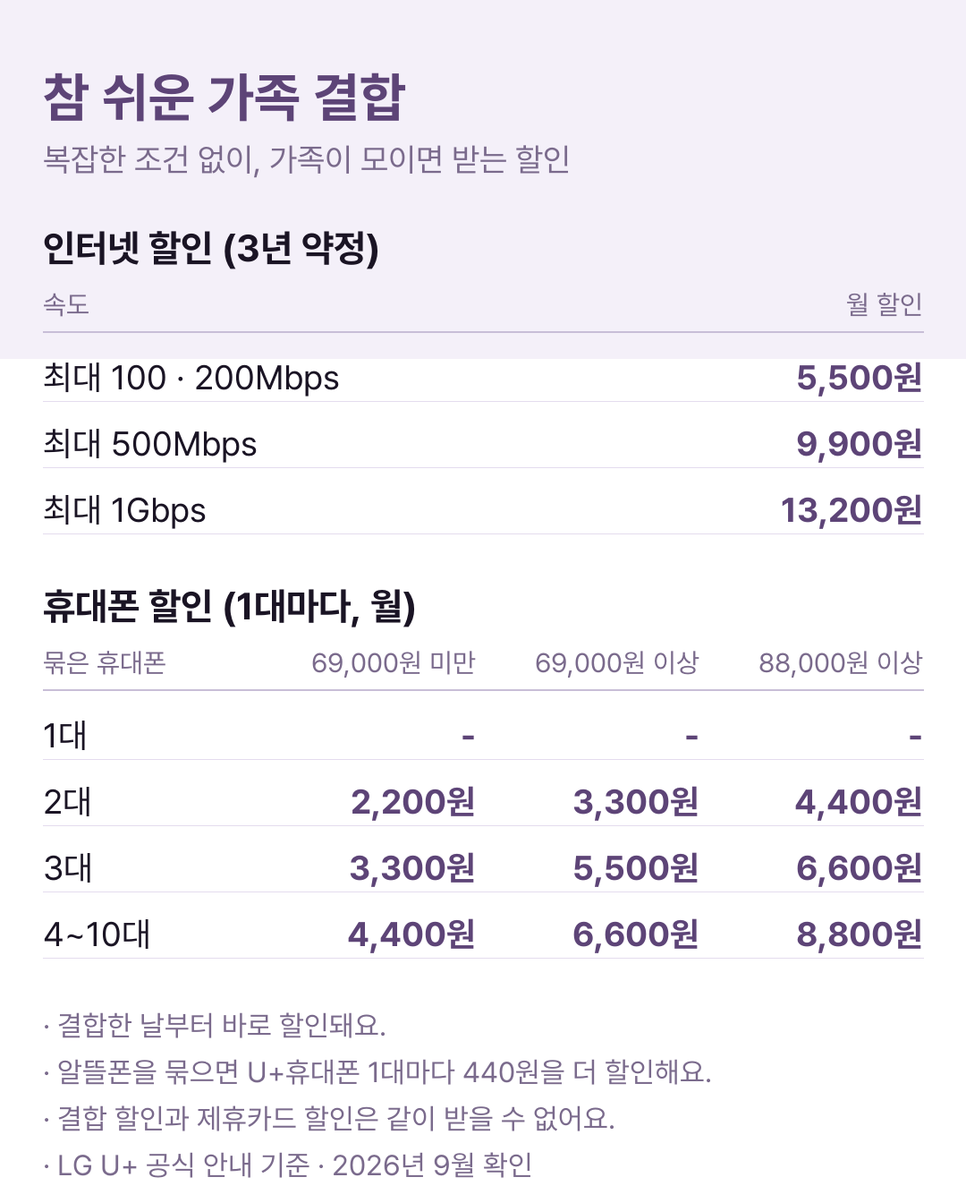
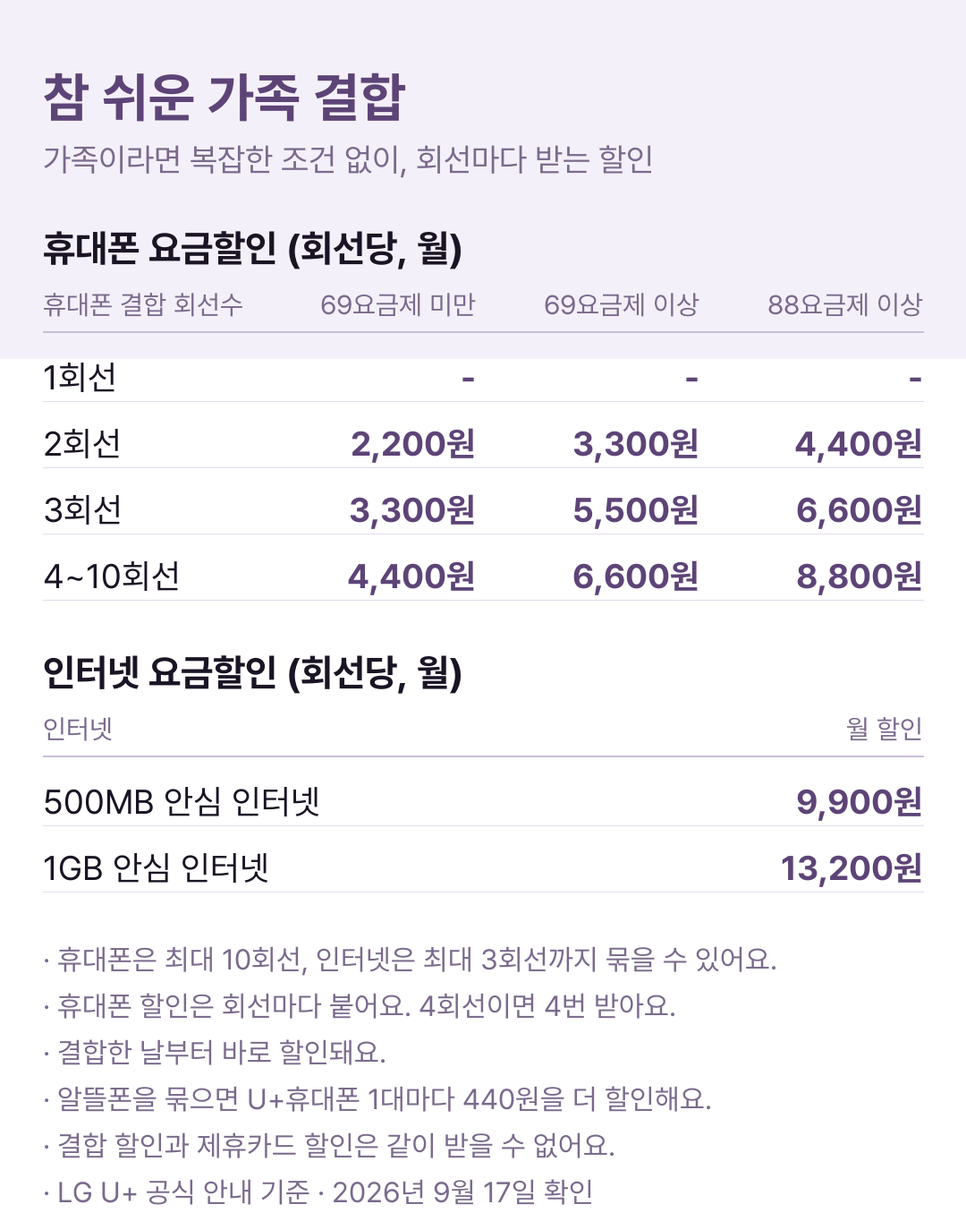
9/17 대표 지시 반영 — 결합표 바로잡기 · 185일 요금제 칸 · 월 납부 금액 올림
- U+투게더·참쉬운 표를 LG U+ 공식 값으로 다시 만듦. 휴대폰 할인은 «회선당»이 맞음(묶음 전체 아님)
- 투게더에서 «가족이 아니어도» 문구 뺌 — 청구계정을 하나로 묶어야 함
- 결합 화면: 아래 [인터넷 같이 상담받기] 단추를 빼고 체크 칸으로, 맨 위에도 체크 칸
- 상품 화면: 인터넷 결합 칸을 고르는 칸 안(PC 오른쪽)으로 옮기고 «투게더 할인 추가로 확인하기» 줄 얹음
- 24개월 합계표에 출고가·이통사지원금·자체할인 세 줄 추가
- 마이페이지에 «185일 뒤 요금제 낮추기» 칸 신설 (D-day·추천 요금제·매달 얼마 덜 내는지)
- 월 납부 금액의 기기 분을 내림→올림 — 이제 «월 할부금 + 월 요금 = 월 납부 금액»
- 월 금액 밑에 «휴대폰 ○○원 + 요금 ○○원» 분해 한 줄
- 작은 설명 글·비교 기준 단추에 몰 색 포인트

diff --git a/pages.css b/pages.css
@@ -72,7 +72,9 @@
 .choice-row { display: grid; grid-template-columns: repeat(2, 1fr); gap: 8px; }
 .choice-row--3 { grid-template-columns: repeat(3, 1fr); }
 .choice { position: relative; display: flex; flex-direction: column; justify-content: center; gap: 2px; min-height: 56px; padding: 11px 14px; border-radius: 12px; background: #fff; box-shadow: inset 0 0 0 1px #dedede; font-size: 15px; font-weight: 700; color: var(--ink); text-align: left; transition: box-shadow .15s; }
-.choice small { font-size: 12px; font-weight: 400; line-height: 1.4; color: var(--g3); }
+/* 고른 쪽 설명은 몰 색으로 — 옅은 회색이라 그냥 지나친다는 대표 지적 (2026-09-17) */
+.choice small { font-size: 12px; font-weight: 400; line-height: 1.4; color: var(--g2); }
+.choice[aria-pressed="true"] small { font-weight: 700; color: var(--mg); }
 .choice:hover { box-shadow: inset 0 0 0 1px #9a9a9a; }
 .choice[aria-pressed="true"] { box-shadow: inset 0 0 0 2px var(--ink); }
 .choice--center { align-items: center; text-align: center; }
@@ -101,6 +103,8 @@
 .pbox__month { margin-top: 16px; padding-top: 16px; border-top: 1px dashed #d6d6d6; display: flex; align-items: flex-end; justify-content: space-between; gap: 12px; }
 .pbox__month .k { font-size: 14px; font-weight: 700; color: var(--ink); }
 .pbox__month .v { font-size: 22px; font-weight: 700; color: var(--black); }
+.pbox__parts { margin-top: 6px; display: flex; flex-wrap: wrap; align-items: center; justify-content: flex-end; gap: 4px; font-size: 12px; color: var(--g1); }
+.pbox__parts i { font-style: normal; font-weight: 700; color: var(--mg); }
 .pbox__note { margin-top: 8px; font-size: 12px; line-height: 1.6; color: var(--g3); }
 .pbox__rows { margin-top: 14px; padding-top: 14px; border-top: 1px solid #e8e8e8; display: grid; gap: 9px; }
 .row { display: flex; justify-content: space-between; gap: 12px; font-size: 14px; }
@@ -338,7 +342,10 @@ body.has-bar #app { padding-bottom: calc(var(--bar) + env(safe-area-inset-bottom
 .compare .col.win { box-shadow: inset 0 0 0 2px var(--ink); }
 .compare h4 { display: flex; align-items: center; justify-content: space-between; gap: 6px; font-size: 14px; font-weight: 700; }
 .compare .big { margin-top: 8px; font-size: 19px; font-weight: 700; letter-spacing: -0.01em; }
-.compare .small { margin-top: 2px; font-size: 12px; line-height: 1.5; color: var(--g3); }
+/* 월 금액이 무엇으로 이루어졌는지 — 휴대폰 + 요금 (대표 2026-09-17) */
+.compare .parts { margin-top: 5px; display: flex; flex-wrap: wrap; align-items: center; gap: 4px; font-size: 12px; line-height: 1.5; color: var(--g1); }
+.compare .parts i { font-style: normal; font-weight: 700; color: var(--mg); }
+.compare .small { margin-top: 6px; padding-top: 6px; border-top: 1px solid var(--line-2); font-size: 12px; line-height: 1.5; color: var(--g3); }
 .compare-res { margin-top: 10px; padding: 11px 13px; border-radius: 10px; background: var(--mg-tint); color: #9b1553; font-size: 14px; font-weight: 700; line-height: 1.5; }
 .a-list li { position: relative; padding-left: 16px; font-size: 16px; line-height: 1.75; color: #2a2a2a; }
 .a-list li::before { content: ""; position: absolute; left: 2px; top: .78em; width: 5px; height: 5px; border-radius: 50%; background: var(--mg); }
@@ -1027,9 +1034,13 @@ body.has-tour #main { padding-top: 60px; }
 }
 
 /* ---------- 할인 방법 비교 기준 · 24개월 합계 창 ---------- */
-.cmp-basis { margin-top: 10px; display: grid; grid-template-columns: 1fr 1fr; padding: 3px; border-radius: 12px; background: var(--chip); }
-.cmp-basis button { height: 36px; border-radius: 9px; font-size: 13px; font-weight: 700; color: var(--g2); text-align: center; }
-.cmp-basis button[aria-pressed="true"] { background: #fff; color: var(--ink); box-shadow: 0 1px 3px rgba(0, 0, 0, .08); }
+/* 무엇을 고르는 칸인지 알아보게 이름을 붙이고 몰 색을 준다 (대표 2026-09-17
+ * «요금제 그대로 / 요금을 낮출 생각이면 이부분도 몬가 포인트를 주는게 좋아보여») */
+.cmp-basis-lab { margin-top: 14px; display: flex; align-items: center; gap: 5px; font-size: 12px; font-weight: 700; color: var(--mg); }
+.cmp-basis-lab .ic { width: 14px; height: 14px; }
+.cmp-basis { margin-top: 6px; display: grid; grid-template-columns: 1fr 1fr; padding: 3px; border-radius: 12px; background: var(--mg-tint); }
+.cmp-basis button { height: 36px; border-radius: 9px; font-size: 13px; font-weight: 700; color: #9b1553; text-align: center; }
+.cmp-basis button[aria-pressed="true"] { background: #fff; color: var(--mg); box-shadow: 0 1px 3px rgba(0, 0, 0, .10); }
 .cmp-sec + .cmp-sec { margin-top: 22px; }
 .cmp-sec h3 { margin-bottom: 6px; font-size: 15px; font-weight: 700; }
 .cmp-tbl { width: 100%; border-collapse: collapse; font-size: 13px; }
@@ -1038,6 +1049,10 @@ body.has-tour #main { padding-top: 60px; }
 .cmp-tbl thead th { font-size: 12px; font-weight: 700; color: var(--g2); }
 .cmp-tbl .tot td { border-bottom: 0; font-weight: 700; color: var(--ink); }
 .cmp-tbl .tot td.win { color: var(--mg); }
+/* 이통사지원금 줄 — 여기가 제일 궁금한 자리라 눈에 들어오게 (대표 2026-09-17) */
+.cmp-tbl .hl td { background: var(--mg-tint); font-weight: 700; color: #9b1553; }
+.cmp-tbl .hl td:first-child { color: #9b1553; border-radius: 8px 0 0 8px; }
+.cmp-tbl .hl td:last-child { border-radius: 0 8px 8px 0; }
 .cmp-res { margin-top: 8px; padding: 10px 12px; border-radius: 10px; background: var(--mg-tint); color: #9b1553; font-size: 13px; font-weight: 700; }
 .cmp-sec .help-t { margin-top: 8px; }
 
@@ -1299,6 +1314,12 @@ body.has-tour #main { padding-top: 60px; }
 .bf-net__t small { display: block; margin-top: 2px; font-size: 12px; line-height: 1.45; color: #6b5c7d; }
 .bf-net__more { flex: none; display: inline-flex; align-items: center; gap: 2px; font-size: 12.5px; font-weight: 700; color: var(--lav-cta); }
 .bf-net__more .ic { width: 13px; height: 13px; }
+/* 보러 가는 줄 — 체크만 있으면 그냥 지나친다는 대표 지적 (2026-09-17) */
+.bf-net--go { flex-direction: column; align-items: stretch; gap: 10px; padding: 14px; }
+.bf-net__go { display: flex; align-items: center; justify-content: space-between; gap: 10px; padding: 12px 14px; border-radius: 11px; background: var(--lav-cta); color: #fff; }
+.bf-net__go .ic { flex: none; width: 17px; height: 17px; }
+.bf-net__got b { display: block; font-size: 15px; font-weight: 700; letter-spacing: -0.02em; }
+.bf-net__got small { display: block; margin-top: 3px; font-size: 12px; line-height: 1.45; color: #e6dff0; }
 
 /* 결합 할인 두 가지 — LG U+ 공식 페이지 방식(할인액을 가장 크게) · 대표 지시 2026-09-17 */
 .cb { display: grid; gap: 14px; margin-top: 16px; }
@@ -1330,3 +1351,25 @@ body.has-tour #main { padding-top: 60px; }
 }
 .cb__img { display: block; width: calc(100% + 40px); max-width: none; height: auto; margin: 16px -20px -22px; border-radius: 0 0 20px 20px; }
 @media (min-width: 1024px) { .cb__img { width: calc(100% + 52px); margin: 18px -26px -26px; border-radius: 0 0 24px 24px; } }
+
+/* ---------- 마이페이지 · 185일 뒤 요금제 낮추기 (대표 2026-09-17) ---------- */
+.pdown { margin-top: 14px; padding: 16px; border-radius: 16px; background: var(--mg-tint); }
+.pdown__hd { display: flex; align-items: flex-start; justify-content: space-between; gap: 10px; }
+.pdown__hd > div > b { display: block; font-size: 15px; font-weight: 700; letter-spacing: -0.02em; color: #7a0f42; }
+.pdown__hd small { display: block; margin-top: 3px; font-size: 12.5px; line-height: 1.5; color: #9b1553; }
+.pdown__hd small b { font-weight: 700; }
+.pdown__d { flex: none; display: inline-flex; align-items: center; height: 24px; padding: 0 9px; border-radius: 7px; background: #fff; font-size: 12px; font-weight: 700; color: var(--mg); }
+.pdown__d.on { background: var(--mg); color: #fff; }
+.pdown__when { margin-top: 8px; font-size: 12.5px; color: #9b1553; }
+.pdown__when b { font-weight: 700; }
+.pdown__list { margin-top: 12px; display: grid; gap: 6px; }
+.pdown__list li { display: flex; align-items: center; justify-content: space-between; gap: 10px; padding: 11px 13px; border-radius: 11px; background: #fff; }
+.pdown__list li.best { box-shadow: inset 0 0 0 1.5px var(--mg); }
+.pdown__list li > div:first-child b { display: flex; align-items: center; gap: 5px; font-size: 14px; font-weight: 700; color: var(--ink); }
+.pdown__list li > div:first-child small { display: block; margin-top: 2px; font-size: 12px; color: var(--g2); }
+.pdown__list .tag { display: inline-flex; align-items: center; height: 18px; padding: 0 6px; border-radius: 5px; background: var(--mg); color: #fff; font-size: 10.5px; font-weight: 700; }
+.pdown__n { flex: none; text-align: right; }
+.pdown__n b { display: block; font-size: 14px; font-weight: 700; color: var(--ink); }
+.pdown__n small { display: block; margin-top: 2px; font-size: 12px; font-weight: 700; color: var(--mg); }
+.pdown .help-t { margin-top: 10px; color: #9b1553; }
+.pdown__acts { margin-top: 12px; display: flex; flex-wrap: wrap; gap: 8px; }

diff --git a/views-shop.js b/views-shop.js
@@ -312,7 +312,8 @@ ${H.bannerHtml()}
     var btn = function (key, label, sub, ok) {
       return `<button type="button" class="choice" data-act="setOpt" data-k="discount" data-v="${key}" aria-pressed="${s.discount === key}"${ok ? "" : " disabled"}>${best && best.key === key ? '<span class="save">덜 내요</span>' : ""}${label}<small>${ok ? sub : "이 상품은 안 돼요"}</small></button>`;
     };
-    var basis = canDown ? `<div class="cmp-basis" role="group" aria-label="비교 기준"><button type="button" data-act="cmpBasis" data-v="keep" aria-pressed="${!down}">요금제 그대로</button><button type="button" data-act="cmpBasis" data-v="down" aria-pressed="${down}">요금을 낮출 생각이면</button></div>` : "";
+    var basis = canDown ? `<p class="cmp-basis-lab">${H.icon("spark")}어떤 기준으로 견줄까요?</p>
+      <div class="cmp-basis" role="group" aria-label="비교 기준"><button type="button" data-act="cmpBasis" data-v="keep" aria-pressed="${!down}">요금제 그대로</button><button type="button" data-act="cmpBasis" data-v="down" aria-pressed="${down}">요금을 낮출 생각이면</button></div>` : "";
     var line = "";
     if (best && best.key !== s.discount) line = `<p class="save-line">${H.icon("spark")}<span>이 조건에선 <b>${best.label}</b>이 ${when} <b class="num">${H.won(best.diff)}</b> 덜 내요.</span><button type="button" data-act="setOpt" data-k="discount" data-v="${best.key}">바꾸기</button></p>`;
     else if (best) line = `<p class="save-line">${H.icon("check")}<span>지금 고른 <b>${best.label}</b>이 ${when} <b class="num">${H.won(best.diff)}</b> 덜 내요.</span></p>`;
@@ -337,8 +338,14 @@ ${H.bannerHtml()}
       ? row(`요금 1~${k}개월<br><small>월 ${H.won(ro.planFeeBase)}</small>`, H.won(ro.planFee * k), H.won(rs.planFee * k)) + row(`요금 ${k + 1}~24개월<br><small>월 47,000원</small>`, H.won(low * rest), H.won(Math.round(low * 0.75) * rest))
       : row("요금 24개월", H.won(ro.planFee * 24), H.won(rs.planFee * 24));
     var win = co === cs ? "" : co < cs ? "a" : "b";
+    /* 할부원금이 어떻게 나왔는지 위 세 줄로 보여 준다 — 이통사지원금이 얼마인지가 제일 궁금하다는
+     * 대표 지적 (2026-09-17 «여기에 이통사 지원금 금액을 넣는게 중요해») */
+    var minus = function (v) { return v > 0 ? "− " + H.won(v) : "없음"; };
+    var head = row("출고가", H.won(ro.release), H.won(rs.release))
+      + `<tr class="hl"><td>이통사지원금</td><td class="num">${minus(ro.carrierSupport)}</td><td class="num">${minus(rs.carrierSupport)}</td></tr>`
+      + row("하이유플 자체할인", minus(ro.self), minus(rs.self));
     return `<table class="cmp-tbl"><thead><tr><th></th><th>이통사지원금</th><th>선택약정</th></tr></thead><tbody>
-      ${row("할부원금", H.won(ro.principal), H.won(rs.principal))}${row("할부 이자", H.won(ro.totalInterest), H.won(rs.totalInterest))}${fees}
+      ${head}${row("할부원금", H.won(ro.principal), H.won(rs.principal))}${row("할부 이자", H.won(ro.totalInterest), H.won(rs.totalInterest))}${fees}
       <tr class="tot"><td>24개월 합계</td><td class="num${win === "a" ? " win" : ""}">${H.won(co)}</td><td class="num${win === "b" ? " win" : ""}">${H.won(cs)}</td></tr></tbody></table>
       ${win ? `<p class="cmp-res">${win === "a" ? "이통사지원금" : "선택약정"}이 <span class="num">${H.won(Math.abs(co - cs))}</span> 덜 내요.</p>` : ""}`;
   }
@@ -364,12 +371,16 @@ ${H.bannerHtml()}
       <div class="pbox__main"><span class="k">나의 실구매가</span><span class="v num">${H.won(r.principal)}</span></div>
       <div class="pbox__conds">${conds.map(function (c) { return `<span class="cond-pill">${c}<b>${H.icon("check")}없음</b></span>`; }).join("")}</div>
       <div class="pbox__month"><span class="k">월 납부 금액 (VAT 포함)</span><span class="v num">${H.won(r.monthlyTotal)}</span></div>
+      <p class="pbox__parts num"><span>휴대폰 ${H.won(r.monthlyTotal - r.planFee)}</span><i>+</i><span>요금 ${H.won(r.planFee)}</span></p>
       <p class="pbox__note">지금 보시는 금액이 최종 결제 금액이에요. 추가 청구는 없어요. 할부를 고른 경우에만 연 5.9% 이자가 붙어요.</p>
       <div class="pbox__rows">${H.priceRows(p, s, r)}</div></div>`;
   }
   H.productPanel = function (p) {
     var s = H.selFor(p), r = H.price(p, s);
+    /* 인터넷 결합은 고르는 칸 안(PC 오른쪽 칸)에 둔다 — 아래에 있으면 PC에서 그냥 지나친다는
+     * 대표 지적 (2026-09-17 «피시버전에서는 하단에 있다보니 그냥 지나칠수있을거같아») */
     return optColor(p, s) + optCarrier(p) + optVol(p, s) + optPlan(p, s, r) + optDiscount(p, s) + optPay(s) + priceBox(p, s, r) +
+      `<div class="pd-net">${H.netAskCard("", "인터넷도 같이 상담받을게요", "휴대폰 가격은 그대로예요. 체크하면 접수할 때 같이 들어가요.")}</div>` +
       `<div class="pd-cta pc-only"><button type="button" class="btn btn--mg btn--block" data-act="order">주문하기</button>
         <div class="pd-cta__sub"><button type="button" data-act="callback">${H.icon("call")}번호만 남기고 상담받기</button><button type="button" data-act="chat">${H.icon("spark")}AI에게 물어보기</button></div></div>
       <div class="pd-cta__sub pd-sub-mo mo-only"><button type="button" data-act="callback">${H.icon("call")}번호만 남기고 상담받기</button><button type="button" data-act="chat">${H.icon("spark")}AI에게 물어보기</button></div>`;
@@ -428,7 +439,6 @@ ${H.bannerHtml()}
         <article class="info-card"><small>추가 청구 없음</small><h3>지금 보시는 월 납부 금액이 마지막 금액이에요</h3><p>개통 후에 다른 명목으로 더 청구하지 않아요. 할부를 고른 경우에만 연 5.9% 이자가 따로 붙어요.</p></article>
         <article class="info-card"><small>요금제</small><h3>요금제는 185일 뒤에 낮출 수 있어요</h3><p>개통일 기준 185일이 지나면 월 47,000원 이상 요금제로 바꿀 수 있어요. 그보다 낮추면 위약금이 생길 수 있어요.</p><a class="link-arrow" href="#/guide/plan-down">자세히 보기${H.icon("arrow")}</a></article>
       </div>
-      ${H.netAskCard("", "인터넷도 같이 상담받을게요", "휴대폰 가격은 그대로예요. 체크하면 접수할 때 같이 들어가요.")}</a>
       ${detailBlock(p, s)}
     </section>
     <section class="pd-sec" id="pdGuide">

diff --git a/together.js b/together.js
@@ -1,5 +1,9 @@
 /* 하이유플 리뉴얼 목업 — 휴대폰 + 인터넷 같이 (메뉴가 아닌 따로 된 설명 공간 · 주소 #/together)
- * 할인표: LG U+ 공식 «참 쉬운 가족 결합» 페이지(lguplus.com/benefit-uplus/combined-discount/B200000016), 2026-09-16 확인
+ * 할인표: LG U+ 공식 두 페이지, 2026-09-17 확인
+ *   참 쉬운 가족 결합  lguplus.com/benefit-uplus/combined-discount/B200000016
+ *   U+투게더 결합      lguplus.com/mobile/combined/together
+ * ★두 결합 모두 휴대폰 할인은 «회선당»이다(묶음 전체가 아니다). 대표 참고자료 2026-09-17 로 바로잡음.
+ * ★투게더에 «가족이 아니어도» 문구를 쓰지 않는다 — 청구계정을 하나로 묶어야 하므로 (대표 2026-09-17)
  * 인터넷 요금 · 설치비: 자비스웹 인터넷+TV 가격설정(hs_internet_settings, LG, 정책 기준일 2026-09-07) 값
  * 가입 지원금은 조합마다 달라 숫자를 쓰지 않는다(2026-09-15 대표 지시로 인터넷 화면에서도 «정해진 값»처럼 보이는 표기를 뺐다)
  */
@@ -57,33 +61,34 @@
   <header class="tg-hd">
     <p class="tg-eyebrow">휴대폰 + 인터넷</p>
     <h1>인터넷도 같이 하면<br>결합 할인이 따로 있어요</h1>
-    <p class="tg-lead">휴대폰 가격은 인터넷과 상관없어요. LG U+ 인터넷을 같이 쓰면 «참 쉬운 가족 결합»으로 매달 요금이 내려가요.</p>
+    <p class="tg-lead">휴대폰 가격은 인터넷과 상관없어요. LG U+ 인터넷을 같이 쓰면 «U+투게더 결합»이나 «참 쉬운 가족 결합»으로 매달 요금이 내려가요.</p>
     <ul class="tg-points">
       <li>${H.icon("check")}<span><b>휴대폰 가격은 그대로</b>인터넷 결합 조건 없음</span></li>
       <li>${H.icon("wifi")}<span><b>인터넷 요금 할인</b>속도에 따라 매달 내려가요</span></li>
       <li>${H.icon("user")}<span><b>가족 휴대폰도 할인</b>2대부터 1대마다 더 내려가요</span></li>
     </ul>
+    ${H.netAskCard("", "인터넷도 같이 상담받을게요", "체크해 두시면 휴대폰 접수할 때 같이 들어가요.", true)}
   </header>
 
   <section class="tg-sec tg-sec--hero"><h2>결합 할인 두 가지</h2><p class="tg-sub">묶는 사람과 조건이 달라요. 어느 쪽이 나은지는 상담에서 같이 봐 드려요.</p>
     <div class="cb">
       <article class="cb__c cb__c--alt">
         <p class="cb__n">U+투게더 결합</p>
-        <p class="cb__d">가족이 아니어도, 무제한 요금제면 묶을 수 있는 할인</p>
-        <p class="cb__big"><b class="num">31,000</b><span>원</span><small>매달, 최대</small></p>
-        <p class="cb__basis">인터넷 500Mbps 이상 + 휴대폰 4~5대 기준</p>
-        <img class="cb__img" src="img/combo-together.png" width="1080" height="1300" alt="U+투게더 결합 할인표">
+        <p class="cb__d">무제한 요금제끼리 모이면, 회선마다 크게 받는 할인</p>
+        <p class="cb__big"><b class="num">91,000</b><span>원</span><small>매달</small></p>
+        <p class="cb__basis">휴대폰 4대(회선당 20,000원) + 1Gbps 인터넷 기준 · 월 85,000원 이상 요금제만</p>
+        <img class="cb__img" src="img/combo-together.png" width="1080" height="1448" alt="U+투게더 결합 할인표">
       </article>
       <article class="cb__c">
         <p class="cb__n">참 쉬운 가족 결합</p>
-        <p class="cb__d">복잡한 조건 없이, 가족이 모이면 받는 할인</p>
-        <p class="cb__big"><b class="num">57,200</b><span>원</span><small>매달, 최대</small></p>
-        <p class="cb__basis">인터넷 1Gbps + 가족 휴대폰 5대(월 88,000원 이상) 기준</p>
-        <img class="cb__img" src="img/combo-family.png" width="1080" height="1344" alt="참 쉬운 가족 결합 할인표">
+        <p class="cb__d">가족이라면 복잡한 조건 없이, 회선마다 받는 할인</p>
+        <p class="cb__big"><b class="num">48,400</b><span>원</span><small>매달</small></p>
+        <p class="cb__basis">같은 조건 — 휴대폰 4회선(회선당 8,800원) + 1GB 인터넷 기준</p>
+        <img class="cb__img" src="img/combo-family.png" width="1080" height="1374" alt="참 쉬운 가족 결합 할인표">
       </article>
     </div>
-    <ul class="a-list tg-notes"><li>할인액은 3년 약정 기준이에요. 2년은 절반, 1년은 4분의 1이에요.</li><li>두 결합을 같이 받을 수는 없어요. 유리한 쪽 하나를 골라요.</li></ul>
-    <p class="asof">LG U+ 공식 안내 기준 · 2026년 9월 16일 확인 · 가입 조건은 상담에서 다시 확인해 드려요</p>
+    <ul class="a-list tg-notes"><li><b>두 결합 모두 휴대폰 할인은 회선마다 붙어요.</b> 묶은 대수만큼 곱해서 받아요.</li><li>투게더는 월 85,000원 이상 무제한 요금제만 되고, 대표자가 한꺼번에 내는 청구계정으로 묶어야 해요.</li><li>인터넷 할인액은 3년 약정 기준이에요. 2년은 절반, 1년은 4분의 1이에요.</li><li>두 결합을 같이 받을 수는 없어요. 유리한 쪽 하나를 골라요.</li></ul>
+    <p class="asof">LG U+ 공식 안내 기준 · 2026년 9월 17일 확인 · 가입 조건은 상담에서 다시 확인해 드려요</p>
   </section>
 
   <section class="tg-sec"><h2>인터넷 가입 지원금</h2>
@@ -105,7 +110,7 @@
 
   ${H.netAskCard("", "인터넷도 같이 상담받을게요", "체크해 두시면 휴대폰 접수할 때 같이 들어가요.", true)}
 
-  <div class="tg-cta"><button type="button" class="btn btn--mg btn--block" data-act="tgLead">인터넷 같이 상담받기</button>${backBtn()}</div>
+  <div class="tg-cta">${backBtn()}</div>
   <p class="demo-note"><span class="demo-tag">시안</span>하이유플은 지금 인터넷을 웹에서 팔지 않아요(인터넷 화면 꺼짐). 상담 접수는 자비스웹 «상담 접수 › 인터넷»으로 들어가요</p>
 </div>`
     };

diff --git a/views-member.js b/views-member.js
@@ -131,6 +131,47 @@
   };
 
   /* ---------- 마이페이지 ---------- */
+  /* 185일 뒤 요금제 낮추기 — 개통하고 나면 잊어버리는 자리라 마이페이지에서 챙겨 준다
+   * (대표 2026-09-17 «고객이 185일 이후에 어떤거로 변경하는게 좋다는걸 볼수있는 칸을 만들어줘») */
+  function planDownCard(o) {
+    if (!o) return "";
+    var p = H.prod(o.pid);
+    if (!p) return "";
+    var sel = o.sel, r = H.price(p, sel), now = r.plan;
+    if (!now || r.planFeeBase <= H.DOWN.fee) return "";
+    var sale = sel.discount === "select";
+    var feeOf = function (f) { return sale ? Math.round(f * 0.75) : f; };
+
+    var d = new Date(String(o.date).replace(/\./g, "-"));
+    d.setDate(d.getDate() + 185);
+    var when = d.getFullYear() + "." + String(d.getMonth() + 1).padStart(2, "0") + "." + String(d.getDate()).padStart(2, "0");
+    var left = Math.ceil((d - new Date()) / 86400000);
+    var ready = left <= 0;
+
+    var list = Object.keys(H.D.plans).map(function (k) { return H.D.plans[k]; })
+      .filter(function (x) { return x.fee >= H.DOWN.fee && x.fee < r.planFeeBase; })
+      .sort(function (a, b) { return a.fee - b.fee; }).slice(0, 3);
+    if (!list.length) return "";
+
+    return `<section class="pdown">
+      <div class="pdown__hd">
+        <div><b>185일 뒤엔 요금제를 낮출 수 있어요</b>
+          <small>지금 <b>${H.esc(now.name)}</b> 월 ${H.won(r.planFee)}${sale ? " (선택약정 25% 뺀 금액)" : ""}</small></div>
+        <span class="pdown__d ${ready ? "on" : ""}">${ready ? "지금 바꿀 수 있어요" : "D-" + left}</span>
+      </div>
+      <p class="pdown__when">개통일 ${H.esc(o.date)} 기준 · <b>${when}</b>부터</p>
+      <ul class="pdown__list">${list.map(function (x, i) {
+      var save = r.planFee - feeOf(x.fee);
+      return `<li${i === 0 ? ' class="best"' : ""}>
+          <div><b>${H.esc(x.name)}${i === 0 ? '<span class="tag">가장 많이 아껴요</span>' : ""}</b>
+            <small>${H.esc(x.data)}${x.after ? " · 다 쓰면 " + H.esc(x.after) : ""}</small></div>
+          <div class="pdown__n"><b class="num">월 ${H.won(feeOf(x.fee))}</b><small class="num">매달 ${H.won(save)} ↓</small></div></li>`;
+    }).join("")}</ul>
+      <p class="help-t">월 47,000원(${H.DOWN.name})보다 더 낮추면 받은 지원금을 토해내야 할 수 있어요. 선택약정 25% 할인은 바꾼 요금제에도 그대로 이어져요.</p>
+      <div class="pdown__acts"><button type="button" class="btn btn--line btn--sm" data-act="consult">바꾸는 것 상담받기</button><a class="btn btn--soft btn--sm" href="#/guide/plan-down">왜 185일인가요?</a></div>
+    </section>`;
+  }
+
   H.views.my = function () {
     var s = H.state;
     if (!s.loggedIn) {
@@ -162,6 +203,7 @@
   <div>
     <header class="me-hd"><h1>${H.esc(s.user.name)}님</h1><p>아이디 ${H.esc(s.user.id)} · <a class="me-edit" href="#/my/account">회원정보 수정 ›</a></p></header>
     <div class="tiles">${tiles}</div>
+    ${planDownCard(cur)}
     ${s.partner ? `<div class="ref-card"><div><b>내 추천 링크</b><small class="num">hiuplus.com/${s.partner.code}</small></div><div class="ref-card__acts"><button type="button" class="btn btn--line btn--sm" data-act="copyRef">복사</button><a class="btn btn--ink btn--sm" href="#/partner/stats">내 실적</a></div></div>`
       : `<a class="ref-card ref-card--join" href="#/partner"><div><b>하이유플 파트너스</b><small>지인에게 링크를 보내고 개통 1건당 20,000원 받기</small></div>${H.icon("chev-r")}</a>`}
     <div class="quick">

diff --git a/core.js b/core.js
@@ -82,7 +82,9 @@
       release: release, carrierSupport: carrierSupport, self: self, principal: principal, months: months,
       monthlyDevice: monthlyDevice, interest: interest, totalInterest: totalInterest,
       planFee: planFee, planFeeBase: row[1], selectMonthly: row[1] - planFee,
-      monthlyTotal: (raw > 0 ? Math.floor(raw) : 0) + planFee, plan: H.plan(row[0]), planId: row[0]
+      /* 월 납부 금액의 기기 분도 올림 — 옛 사이트는 내림이라 «할부금+요금»과 1원 어긋났다.
+       * 대표 2026-09-17 «올림으로 맞추고» → 이제 표의 월 할부금 + 월 통신 요금 = 월 납부 금액 */
+      monthlyTotal: monthlyDevice + planFee, plan: H.plan(row[0]), planId: row[0]
     };
   };
   /* 24개월 동안 내는 돈 = 기기값 + 할부 이자 + 요금 24개월 */
@@ -109,14 +111,18 @@
    * «설명화면으로 넘어가고 설명화면 에도 설명화면 누르기전에도 체크 하는게 있어야되») */
   H.netAsk = function () { return H.state.netAsk === true; };
   H.acts.netAskToggle = function () { H.state.netAsk = !H.state.netAsk; H.save(); H.render(); };
+  /* noMore=true 면 체크 칸만 (결합 화면 위·아래에 쓴다).
+   * 아니면 «얼마나 내려가는지 보러 가는 줄»을 위에 크게 얹는다 — 체크만 있으면 그냥 지나친다는
+   * 대표 지적 (2026-09-17 «투게더 할인 추가 확인 하기 같은 식으로 해서 고객 클릭 유도») */
   H.netAskCard = function (_eyebrow, title, desc, noMore) {
     var on = H.netAsk();
-    return `<div class="bf-net${on ? " on" : ""}">
-      <button type="button" class="bf-net__chk" data-act="netAskToggle" aria-pressed="${on}">
+    var chk = `<button type="button" class="bf-net__chk" data-act="netAskToggle" aria-pressed="${on}">
         <span class="box">${H.icon("check")}</span>
-        <span class="bf-net__t"><b>${H.esc(title)}</b><small>${H.esc(desc)}</small></span></button>
-      ${noMore ? "" : `<a class="bf-net__more" href="#/together">결합 할인 보기${H.icon("arrow")}</a>`}
-    </div>`;
+        <span class="bf-net__t"><b>${H.esc(title)}</b><small>${H.esc(desc)}</small></span></button>`;
+    if (noMore) return `<div class="bf-net${on ? " on" : ""}">${chk}</div>`;
+    return `<div class="bf-net bf-net--go${on ? " on" : ""}">
+      <a class="bf-net__go" href="#/together"><span class="bf-net__got"><b>투게더 결합 할인 추가로 확인하기</b><small>가족 4명이 모이면 인터넷까지 매달 91,000원 내려가요</small></span>${H.icon("arrow")}</a>
+      ${chk}</div>`;
   };
 
   H.listPrice = function (p) { var s = H.defaults(p); return Object.assign(H.price(p, s), { sel: s }); };

diff --git a/views-more.js b/views-more.js
@@ -49,9 +49,14 @@
     var ra = H.price(p, sa), rb = H.price(p, sb), ca = cost(p, sa), cb = cost(p, sb);
     var win = b.neutral || ca === cb ? "" : ca < cb ? "a" : "b";
     var after = function (r, s) { return r.monthlyTotal - r.planFee + Math.round(Math.min(r.planFeeBase, H.DOWN.fee) * (s.discount === "select" ? 0.75 : 1)); };
+    /* 월 납부 금액이 무엇으로 이루어졌는지 한 줄로 보여 준다 (대표 2026-09-17
+     * «할부금 얼마 요금 얼마 더해서 얼마 이런식으로 표기하면 고객이 더 편하게 볼거같아»)
+     * 기기분은 monthlyTotal − planFee 로 뽑는다. 그래야 «더하면 합계»가 늘 맞는다 */
     var col = function (key, lab, r, c, s) {
       return `<div class="col${win === key ? " win" : ""}"><h4>${lab}${win === key ? '<span class="badge badge--pre">덜 내요</span>' : ""}</h4>
-        <p class="big num">월 ${H.won(r.monthlyTotal)}</p><p class="small num">${b.down ? `${H.DOWN.keep + 1}개월째부터 월 ${H.won(after(r, s))}<br>` : ""}실구매가 ${H.won(r.principal)}<br>24개월 합계 ${H.won(c)}</p></div>`;
+        <p class="big num">월 ${H.won(r.monthlyTotal)}</p>
+        <p class="parts num"><span>휴대폰 ${H.won(r.monthlyTotal - r.planFee)}</span><i>+</i><span>요금 ${H.won(r.planFee)}</span></p>
+        <p class="small num">${b.down ? `${H.DOWN.keep + 1}개월째부터 월 ${H.won(after(r, s))}<br>` : ""}실구매가 ${H.won(r.principal)}<br>24개월 합계 ${H.won(c)}</p></div>`;
     };
     var gap = H.won(Math.abs(ca - cb));
     var res = ca === cb ? "" : b.neutral ? `<p class="compare-res">같은 폰, 같은 요금제라도 24개월 합계가 <span class="num">${gap}</span> 달라요.</p>`

diff --git a/data.js b/data.js
@@ -18,6 +18,7 @@ window.HIU = {
     4: { name: "데이터플랜80GB", fee: 66000, net: "5G", data: "80GB", after: "1Mbps", voice: "유무선 무제한", extra: "300분", sms: "무제한" },
     5: { name: "데이터플랜50GB", fee: 63000, net: "5G", data: "50GB", after: "1Mbps", voice: "유무선 무제한", extra: "300분", sms: "무제한" },
     47: { name: "데이터플랜31GB", fee: 61000, net: "5G", data: "31GB", after: "1Mbps", voice: "유무선 무제한", extra: "300분", sms: "무제한" },
+    32: { name: "데이터플랜9GB", fee: 47000, net: "5G", data: "9GB", after: "400Kbps", voice: "유무선 무제한", extra: "300분", sms: "무제한" },
     19: { name: "LTE 데이터 33", fee: 33000, net: "LTE", data: "1.5GB", after: "", voice: "유무선 무제한", extra: "110분", sms: "무제한" }
   },
 
